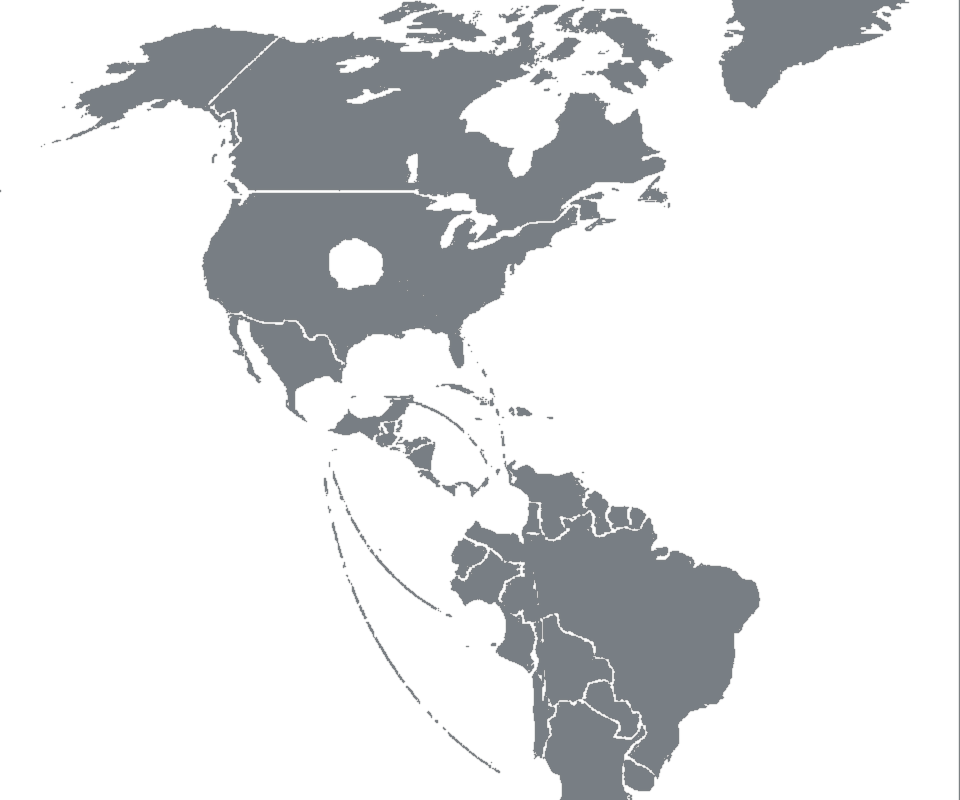
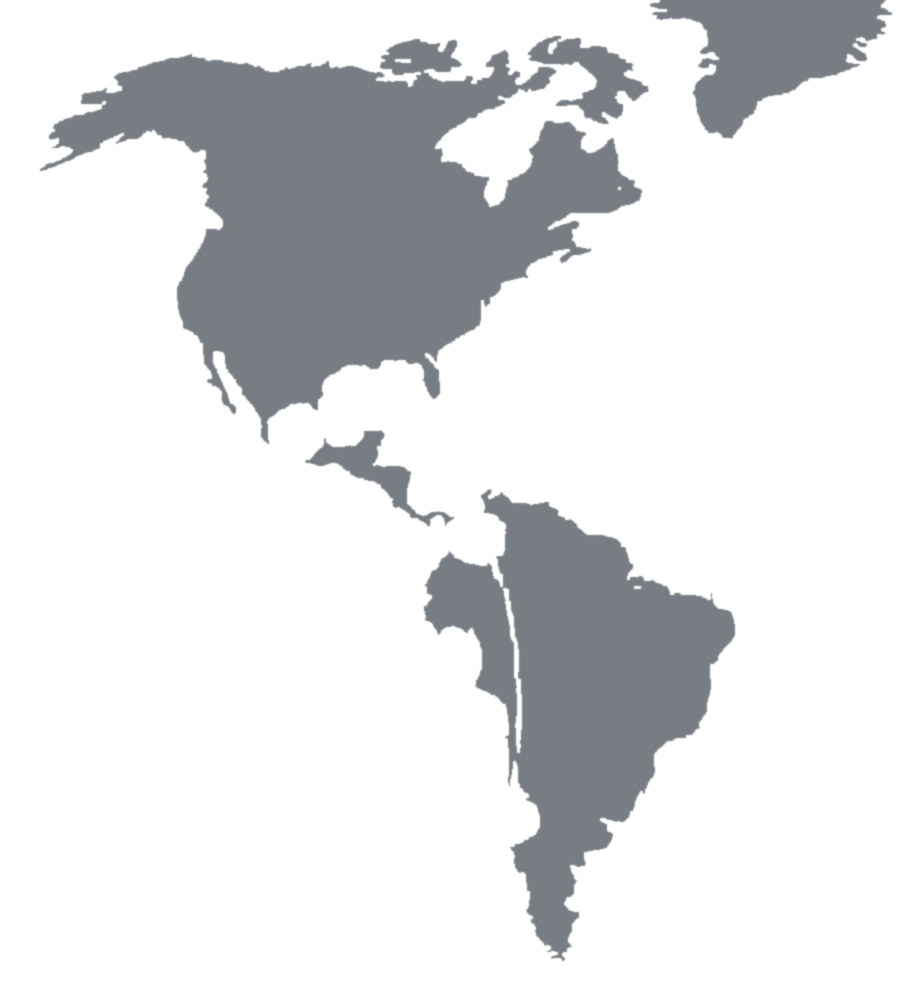
Mapa de presencia: posiciones exactas de ciudades + silueta HD
Detecta los centros de los puntos en el render original para ubicar
bien los nodos (Colombia ya no cae en Panamá) y re-extrae la silueta
de América en alta resolución, limpia (sin arcos/grid/artefactos).

diff --git a/js/deck.js b/js/deck.js
@@ -124,17 +124,17 @@
               <p class="anim" style="font-size:1.2cqi;color:var(--gris-2);margin-top:2.4cqi;max-width:44cqi">Equipos disponibles en varias geografías para acompañamiento regional.</p>
             </div>
             <div class="pres-mapa anim">
-              <img src="img/mapa-siluta.png" class="mapa-sil" alt="">
-              <svg class="mapa-svg" viewBox="0 0 120 100" preserveAspectRatio="none">
-                <defs><filter id="nglow" x="-80%" y="-80%" width="260%" height="260%"><feGaussianBlur stdDeviation="1.1" result="b"/><feMerge><feMergeNode in="b"/><feMergeNode in="SourceGraphic"/></feMerge></filter></defs>
-                <path class="arco" d="M55,60 Q37,45 44,33"/>
-                <path class="arco" d="M55,60 Q41,51 38,50"/>
-                <path class="arco" d="M55,60 Q46,69 54,75"/>
-                <path class="arco" d="M55,60 Q49,80 66,90"/>
+              <img src="img/mapa-siluta.png" class="mapa-sil" alt="Mapa de América">
+              <svg class="mapa-svg" viewBox="0 0 92.1 100" preserveAspectRatio="none">
+                <defs><filter id="nglow" x="-90%" y="-90%" width="280%" height="280%"><feGaussianBlur stdDeviation="1" result="b"/><feMerge><feMergeNode in="b"/><feMergeNode in="SourceGraphic"/></feMerge></filter></defs>
+                <path class="arco" d="M48.3,54.5 Q34,42 33.6,29.8"/>
+                <path class="arco" d="M48.3,54.5 Q36,49.5 30.1,44"/>
+                <path class="arco" d="M48.3,54.5 Q43.5,61 46.2,66.5"/>
+                <path class="arco" d="M48.3,54.5 Q42,70 51.8,83.1"/>
                 <g filter="url(#nglow)">
-                  ${[[44,33],[38,50],[54,75],[66,90]].map(([x,y]) => `<circle class="nodo-ring" cx="${x}" cy="${y}" r="1.4"><animate attributeName="r" values="1.4;5.4;1.4" dur="2.9s" repeatCount="indefinite"/><animate attributeName="opacity" values=".7;0;.7" dur="2.9s" repeatCount="indefinite"/></circle><circle class="nodo-core" cx="${x}" cy="${y}" r="1.4"/>`).join('')}
-                  <circle class="nodo-ring hub" cx="55" cy="60" r="2"><animate attributeName="r" values="2;7;2" dur="2.9s" repeatCount="indefinite"/><animate attributeName="opacity" values=".8;0;.8" dur="2.9s" repeatCount="indefinite"/></circle>
-                  <circle class="nodo-core hub" cx="55" cy="60" r="2.1"/>
+                  ${[[33.6,29.8],[30.1,44],[46.2,66.5],[51.8,83.1]].map(([x,y]) => `<circle class="nodo-ring" cx="${x}" cy="${y}" r="1.3"><animate attributeName="r" values="1.3;4.7;1.3" dur="2.9s" repeatCount="indefinite"/><animate attributeName="opacity" values=".7;0;.7" dur="2.9s" repeatCount="indefinite"/></circle><circle class="nodo-core" cx="${x}" cy="${y}" r="1.3"/>`).join('')}
+                  <circle class="nodo-ring hub" cx="48.3" cy="54.5" r="1.9"><animate attributeName="r" values="1.9;6.2;1.9" dur="2.9s" repeatCount="indefinite"/><animate attributeName="opacity" values=".85;0;.85" dur="2.9s" repeatCount="indefinite"/></circle>
+                  <circle class="nodo-core hub" cx="48.3" cy="54.5" r="1.9"/>
                 </g>
               </svg>
             </div>

diff --git a/css/deck.css b/css/deck.css
@@ -266,7 +266,7 @@ button{font-family:inherit;cursor:pointer;border:none;background:none;color:inhe
 
 /* ---------- Presencia regional ---------- */
 /* Presencia Regional (rebuild HTML) */
-.presencia-grid{display:grid;grid-template-columns:1fr 1.15fr;gap:4cqi;align-items:center;height:100%}
+.presencia-grid{display:grid;grid-template-columns:1fr auto;gap:3cqi;align-items:center;height:100%}
 .pais-lista{display:flex;flex-direction:column;gap:1.5cqi;margin-top:2.6cqi}
 .pais-row{display:flex;align-items:center;gap:1.6cqi}
 .pais-ico{width:4.4cqi;height:4.4cqi;border-radius:50%;background:rgba(57,255,20,.1);border:1px solid rgba(57,255,20,.32);display:grid;place-items:center;flex:none}
@@ -274,8 +274,8 @@ button{font-family:inherit;cursor:pointer;border:none;background:none;color:inhe
 .pais-txt{display:flex;flex-direction:column;line-height:1.2}
 .pais-txt b{font-size:1.95cqi;font-weight:700;color:#fff}
 .pais-txt em{font-style:normal;font-size:1.3cqi;color:var(--gris);margin-top:.2cqi}
-.pres-mapa{position:relative;aspect-ratio:120/100;width:100%;align-self:center}
-.mapa-sil{position:absolute;inset:0;width:100%;height:100%;object-fit:fill;opacity:.5}
+.pres-mapa{position:relative;height:47cqi;aspect-ratio:92.1/100;align-self:center}
+.mapa-sil{position:absolute;inset:0;width:100%;height:100%;object-fit:fill;opacity:.58}
 .mapa-svg{position:absolute;inset:0;width:100%;height:100%;overflow:visible}
 .arco{fill:none;stroke:#39FF14;stroke-width:.35;opacity:.4;stroke-linecap:round}
 .nodo-core{fill:#39FF14}
